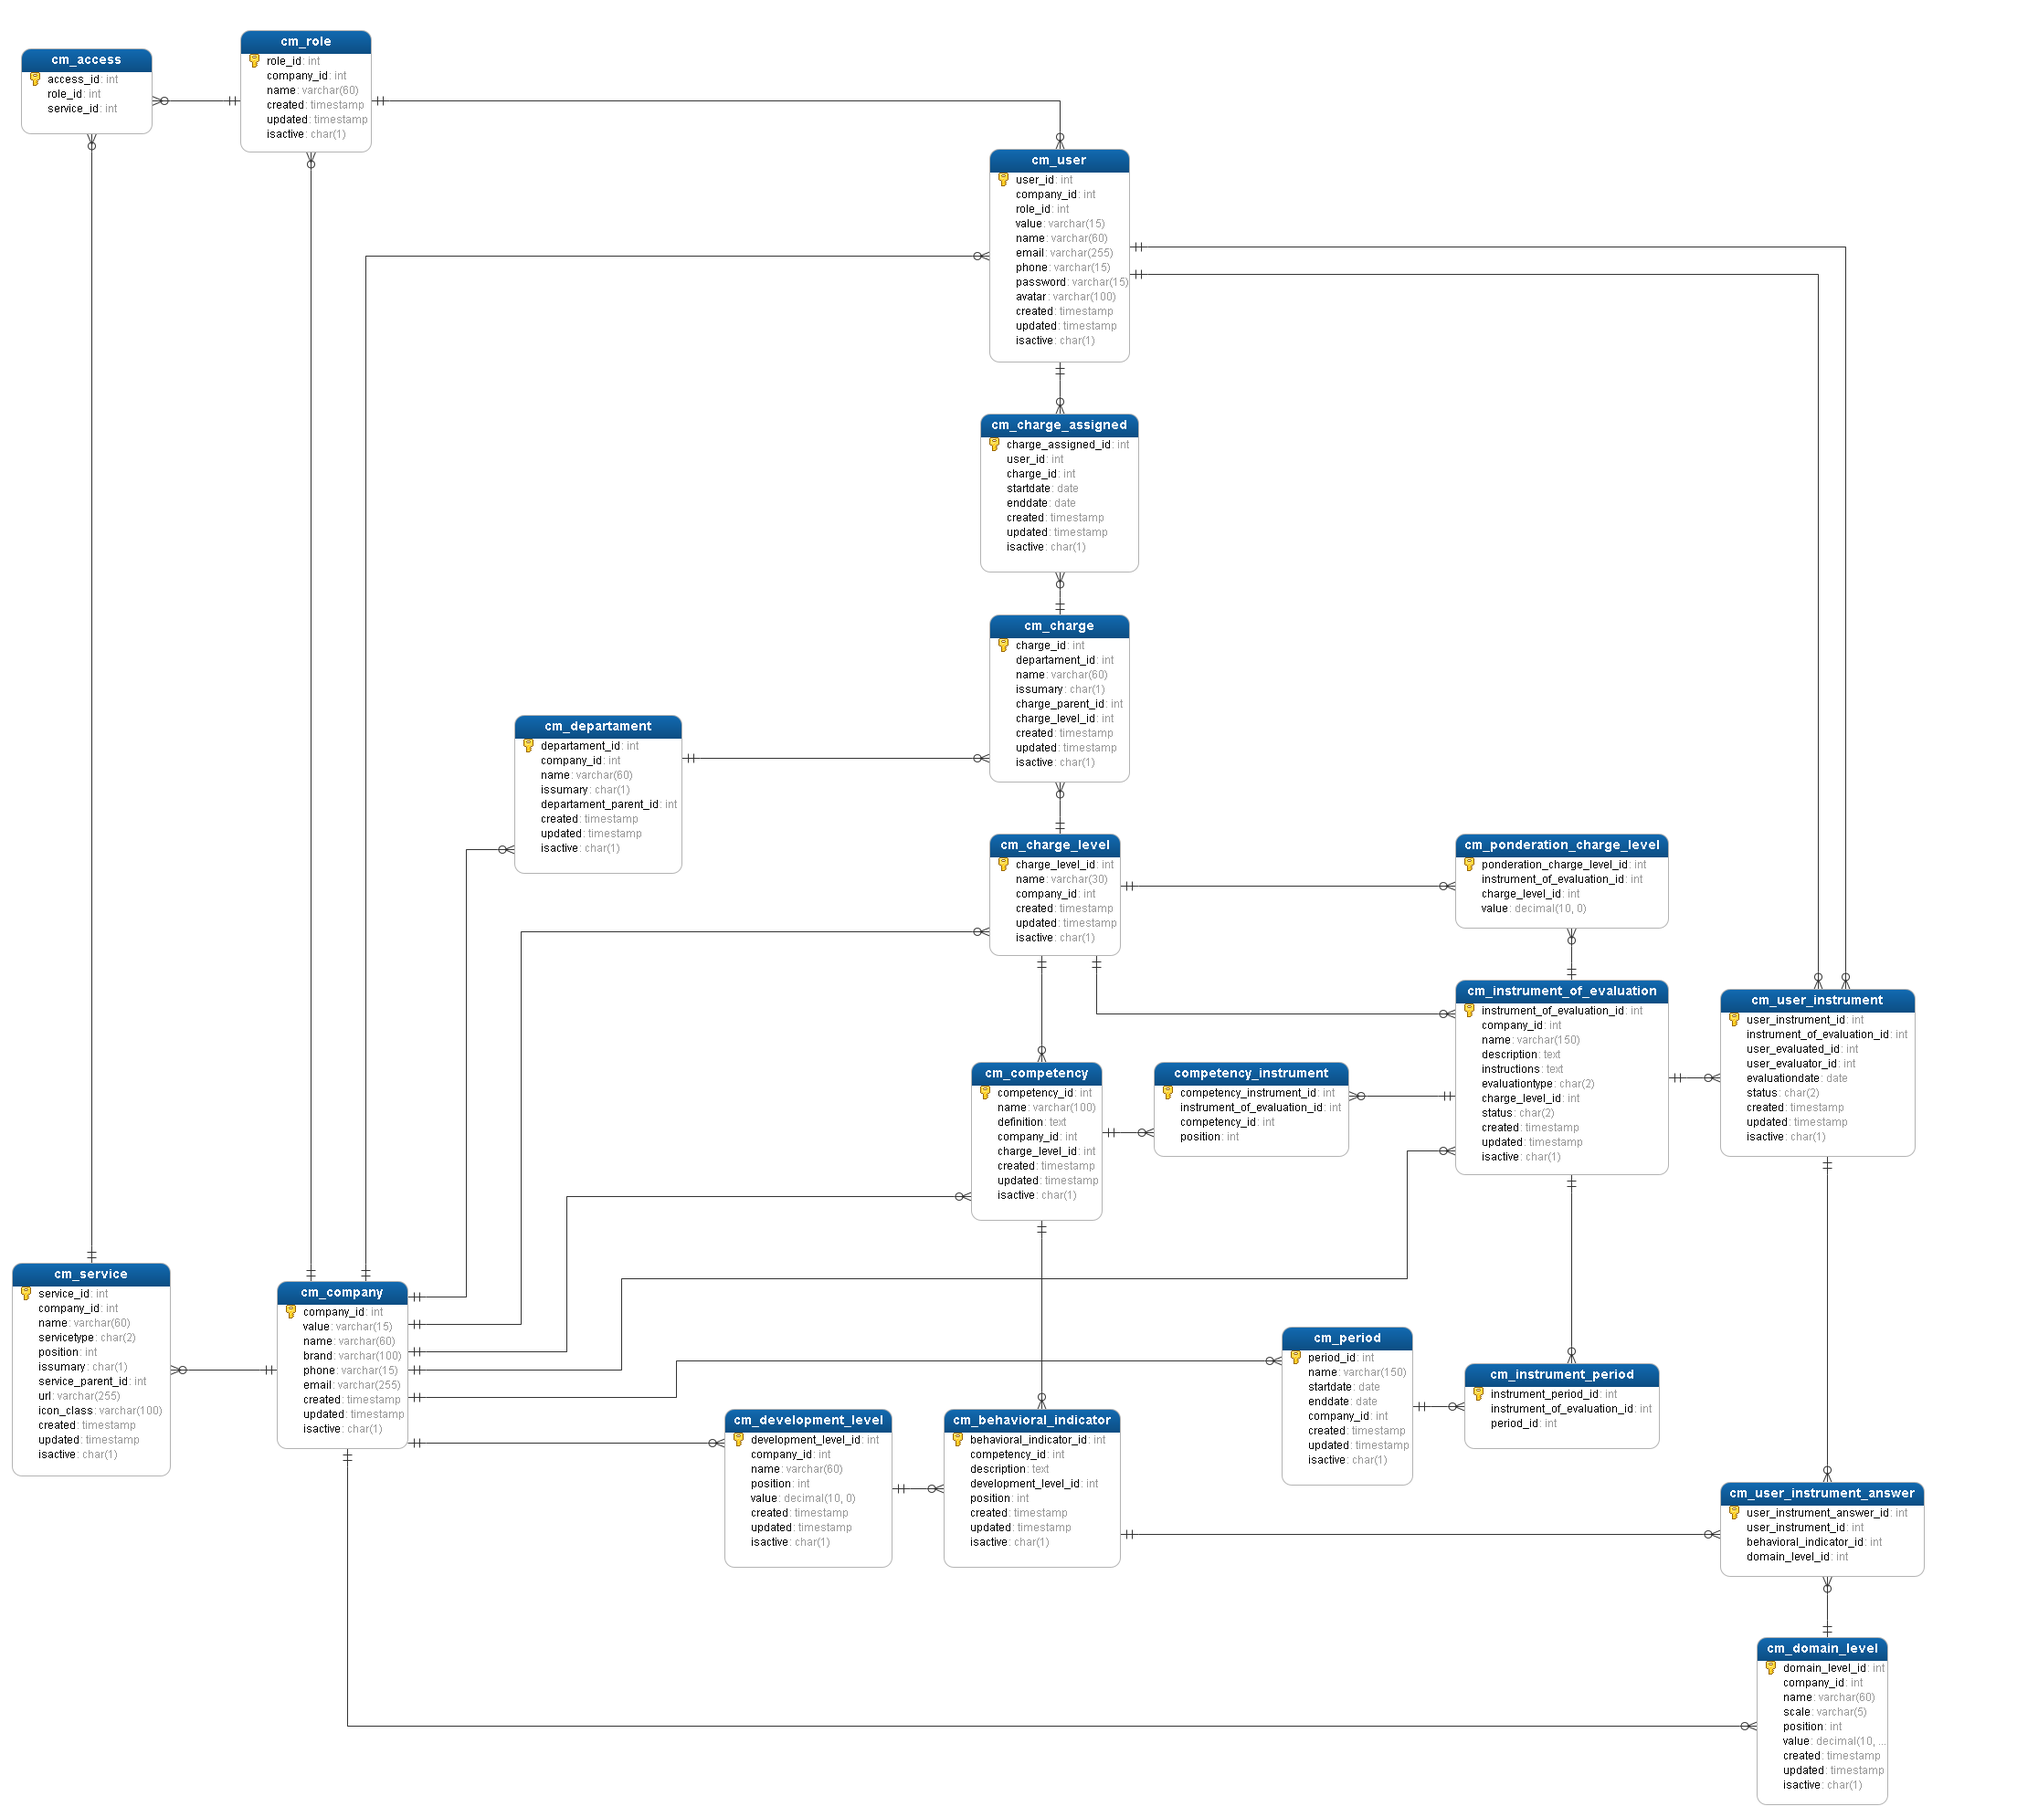
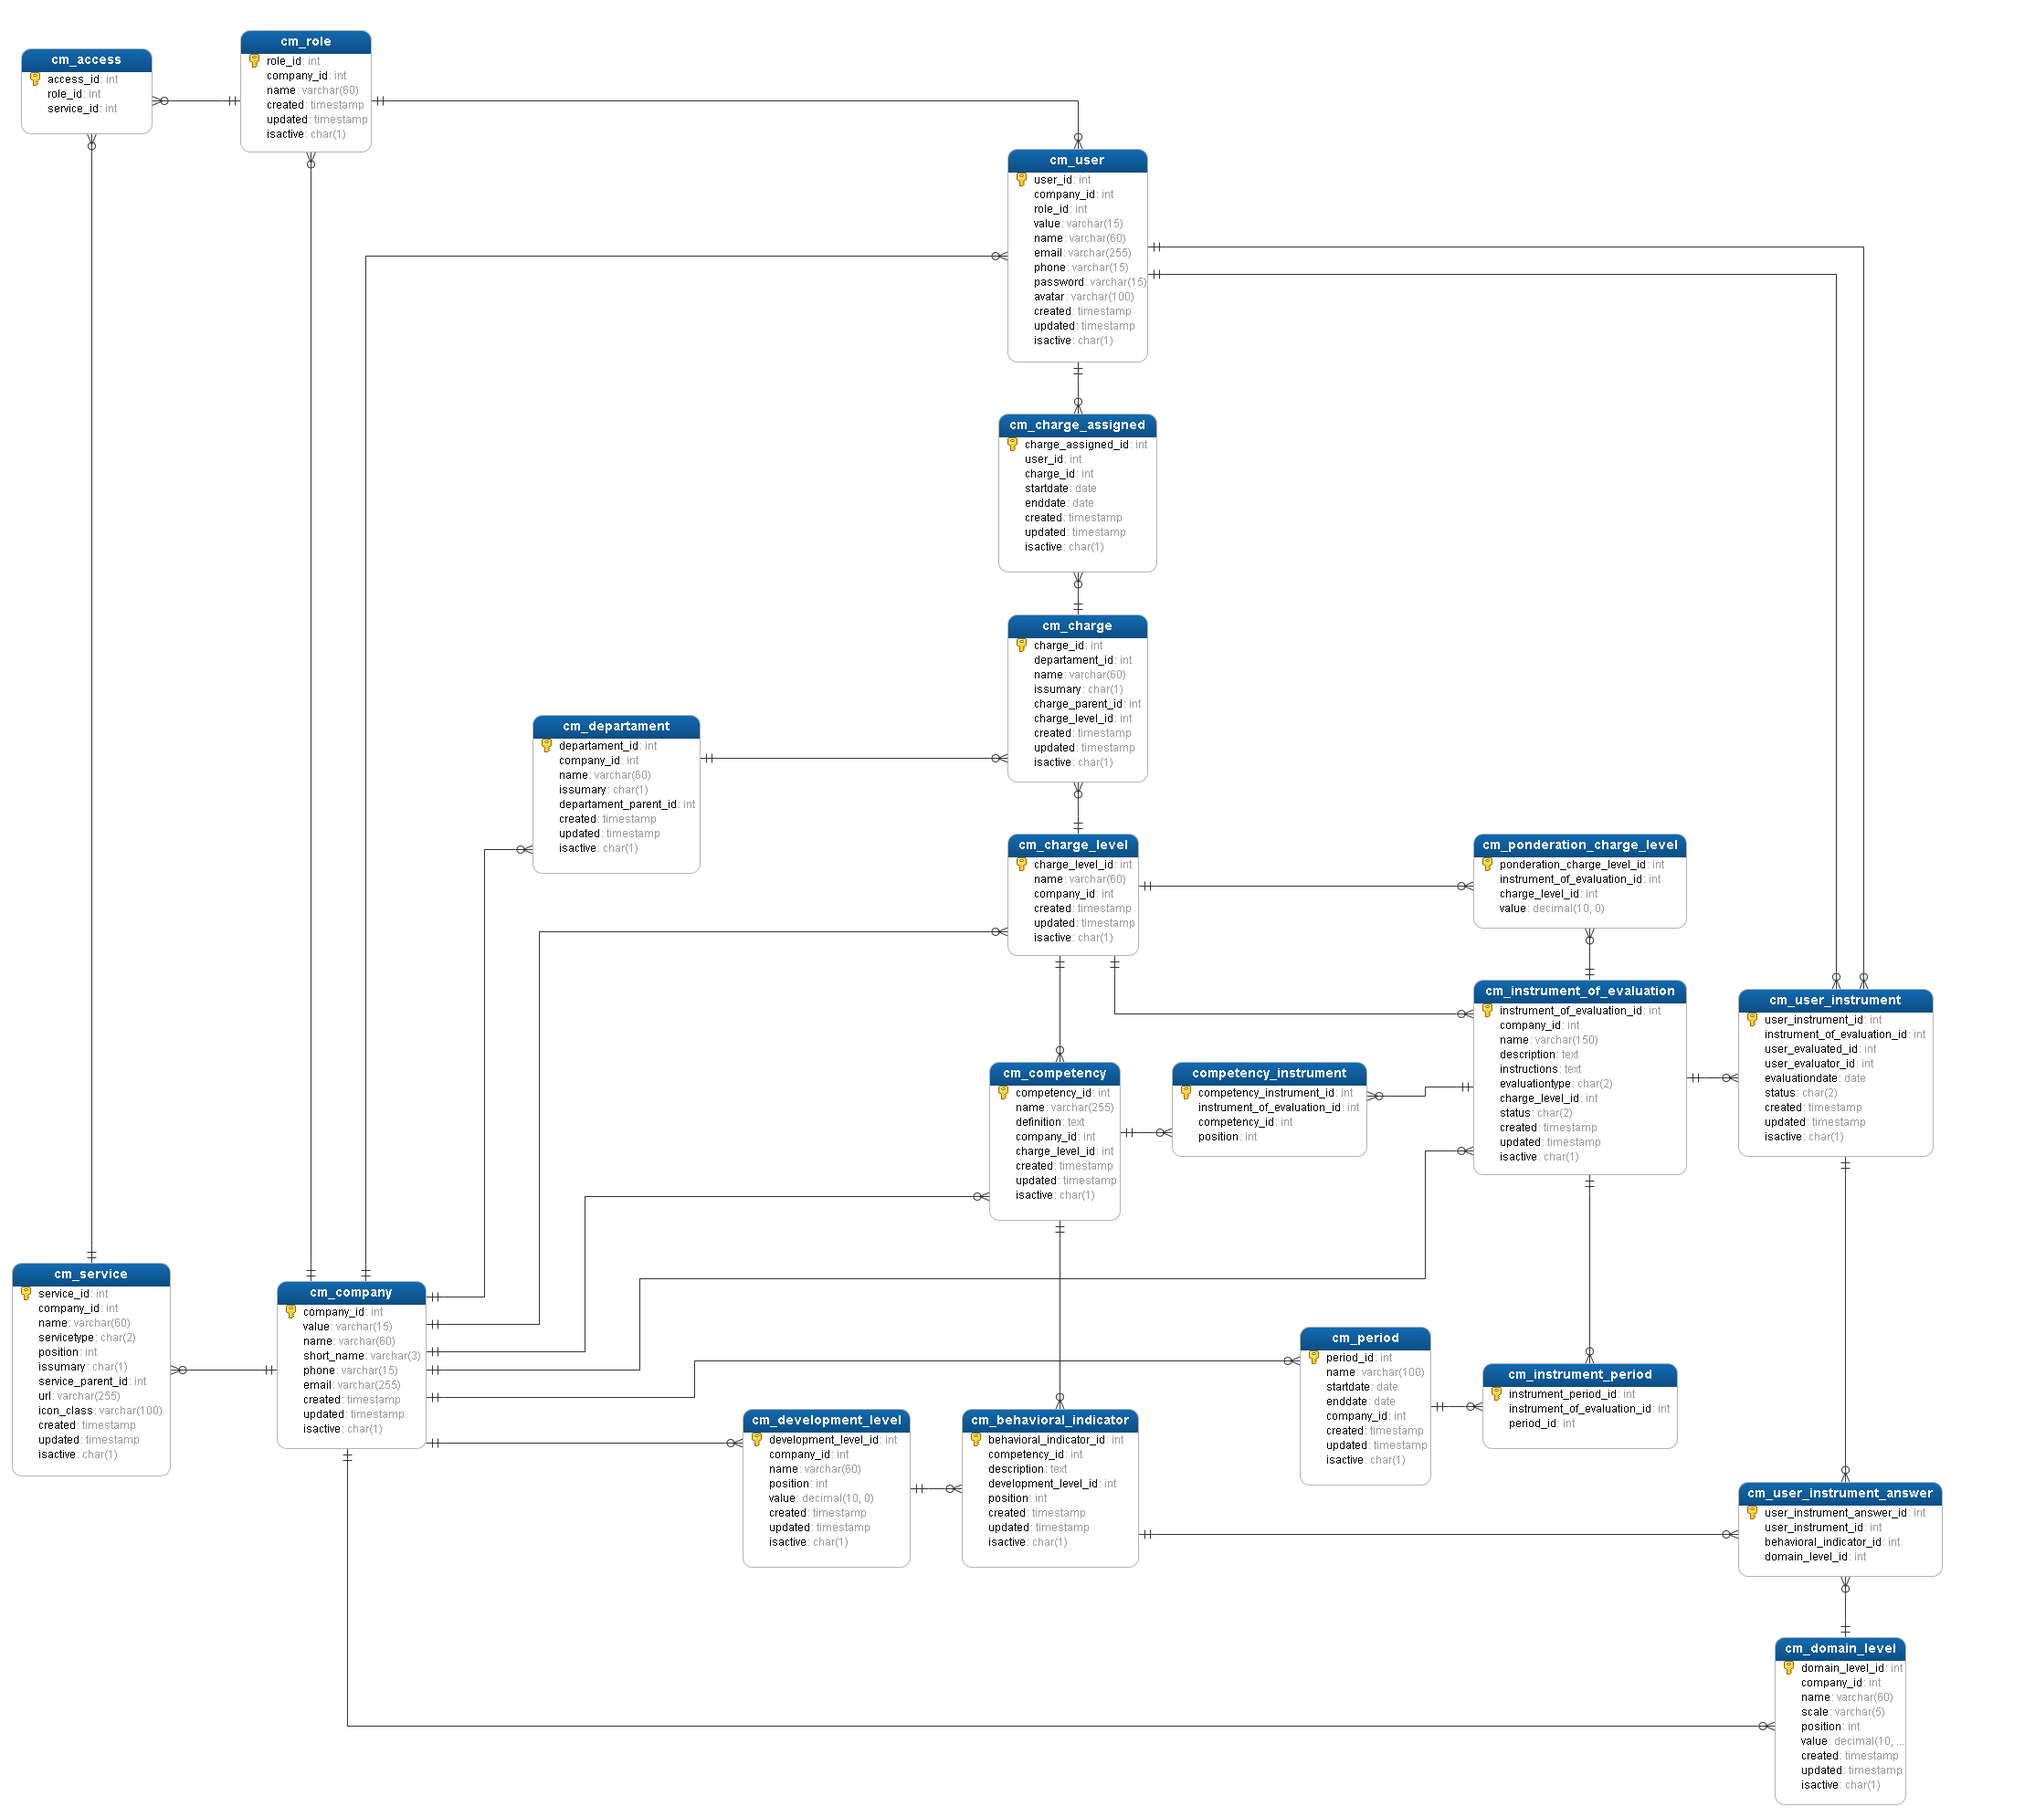
change the mer and database file

diff --git a/application/controllers/Companies.php b/application/controllers/Companies.php
@@ -35,36 +35,15 @@ class Companies extends CI_Controller{
 		$this->Company->name = strtoupper($this->input->post("txtname"));
 		$this->Company->phone = $this->input->post("txtphone");
 		$this->Company->email = strtoupper($this->input->post("txtemail"));
-		$this->Company->brand = 'empty.png';
-
-		/*if( isset($_FILES['txtbrand']['name']) and !empty($_FILES['txtbrand']['name']) ){
-			//Config of Images
-			$config = array(
-				'upload_path' => "./public/upload/company/",
-				'allowed_types' => "jpg|png|jpeg",
-				'overwrite' => TRUE,
-				'max_size' => "2048000",
-				'max_height' => "600",
-				'max_width' => "600",
-				'encrypt_name' => TRUE
-			);
-			//End Config
-			$this->load->library('upload',$config);
-			if($this->upload->do_upload('txtbrand')){
-				$udata = $this->upload->data();
-				$this->Company->brand = $udata['file_name'];
-			}
-		}*/
+		$this->Company->short_name = strtoupper($this->input->post("txtshort_name"));
 
 		if( count($this->Company->getData("byname")) > 0){
 			$string = 'Esta Copa&ntilde;ia ya se encuentra Registrada!!';
-			//unlink($udata['full_path']);
 		}else{
 			if($this->Company->add()){
 				$string = 'Compa&ntilde;ia registrada con Exito!!';
 			}else{
 				$string = 'Ocurrio un error al intentar registrar la Compa&ntilde;ia!!';
-				//unlink($udata['full_path']);
 			}
 		}
 
@@ -94,28 +73,8 @@ class Companies extends CI_Controller{
 		$this->Company->name = strtoupper($this->input->post("txtname"));
 		$this->Company->phone = $this->input->post("txtphone");
 		$this->Company->email = strtoupper($this->input->post("txtemail"));
-		$this->Company->brand = 'empty.png';
+		$this->Company->short_name = strtoupper($this->input->post("txtshort_name"));
 
-		/*
-		if( isset($_FILES['txtbrand']['name']) and !empty($_FILES['txtbrand']['name']) ){
-			//Config of Images
-			$config = array(
-				'upload_path' => "./public/upload/company/",
-				'allowed_types' => "jpg|png|jpeg",
-				'overwrite' => TRUE,
-				'max_size' => "2048000",
-				'max_height' => "600",
-				'max_width' => "600",
-				'encrypt_name' => TRUE
-			);
-			//End Config
-			$this->load->library('upload',$config);
-
-			if($this->upload->do_upload('txtbrand')){
-				$udata = $this->upload->data();
-				$this->Company->brand = $udata['file_name'];
-			}
-		}*/
 
 		if($this->Company->update()){
 			$string = 'Compa&ntilde;ia modificada con Exito!!';

diff --git a/application/models/Company.php b/application/models/Company.php
@@ -4,7 +4,7 @@ class Company extends CI_Model{
 	public $company_id,
 		   $value,
 		   $name,
-		   $brand,
+		   $short_name,
 		   $phone,
 		   $email,
 		   $created,
@@ -17,7 +17,7 @@ class Company extends CI_Model{
 
 	public function add(){
 
-		$query = "INSERT INTO cm_company(value,name,brand,phone,email) VALUES ('$this->value','$this->name','$this->brand','$this->phone','$this->email')";
+		$query = "INSERT INTO cm_company(value,name,short_name,phone,email) VALUES ('$this->value','$this->name','$this->short_name','$this->phone','$this->email')";
 
 		$this->db->trans_start();
 
@@ -47,8 +47,8 @@ class Company extends CI_Model{
 			case 'byvalue':
 				$query = "SELECT * FROM cm_company WHERE value = '$this->value' ORDER BY name ASC";
 			break;
-			case 'getbrand':
-				$query = "SELECT brand FROM cm_company WHERE company_id = $this->compnay_id";
+			case 'getshort_name':
+				$query = "SELECT short_name FROM cm_company WHERE company_id = $this->compnay_id";
 			break;
 		}
 
@@ -60,7 +60,7 @@ class Company extends CI_Model{
 
 	public function update(){
 
-		$query = "UPDATE cm_company SET value = '$this->value', name = '$this->name', brand = '$this->brand', phone = '$this->phone', email = '$this->email' WHERE company_id = $this->company_id";
+		$query = "UPDATE cm_company SET value = '$this->value', name = '$this->name', short_name = '$this->short_name', phone = '$this->phone', email = '$this->email' WHERE company_id = $this->company_id";
 
 		$this->db->trans_start();
 

diff --git a/application/views/admin/company/edit.php b/application/views/admin/company/edit.php
@@ -17,13 +17,8 @@
  				<input type="text" class="form-control textuppercase" value='<?= $item[0]->name ?>' name="txtname" id="txtname">
  			</div>
  			<div class='form-group'>
- 				<label for="txtbrand">Brand:</label>
- 			</div>
- 			<div class="form-group">
- 				<img width="160" height="160" src="<?= base_url() ?>public/upload/company/<?= $item[0]->brand ?>"/>
- 				<br />
- 				<br />
- 				<input type="file" name="txtbrand" id="txtbrand">
+ 				<label for="txtshort_name">Short Name:</label>
+        <input type="text" class="form-control textuppercase" value="<?= $item[0]->short_name ?>" name="txtshort_name" id="txtshort_name">
  			</div>
  			<div class='form-group'>
  				<label for="txtphone">Phone:</label>

diff --git a/application/views/admin/template/header.php b/application/views/admin/template/header.php
@@ -20,6 +20,8 @@
   <script src="<?= base_url() ?>public/js/adminlte.min.js"></script>
   <script src="<?= base_url() ?>public/js/demo.js"></script>
   <script src="<?= base_url() ?>public/js/bootbox.min.js"></script>
+  <script src="<?= base_url() ?>public/plugins/jQueryValidate/dist/jquery.validate.min.js"></script>
+  <script src="<?= base_url() ?>public/plugins/jQueryValidate/dist/additional-methods.min.js"></script>
   <script src="<?= base_url() ?>public/js/global.js"></script>
 </head>
 <body class="hold-transition skin-blue sidebar-mini">

diff --git a/application/views/admin/company/create.php b/application/views/admin/company/create.php
@@ -16,8 +16,8 @@
  				<input type="text" class="form-control textuppercase" name="txtname" id="txtname">
  			</div>
  			<div class='form-group'>
- 				<label for="txtbrand">Brand:</label>
-        <input type="file" name="txtbrand" id="txtbrand">
+ 				<label for="txtshort_name">Short Name:</label>
+        <input type="text" class="form-control textuppercase" name="txtshort_name" id="txtshort_name">
  			</div>
  			<div class='form-group'>
  				<label for="txtphone">Phone:</label>
